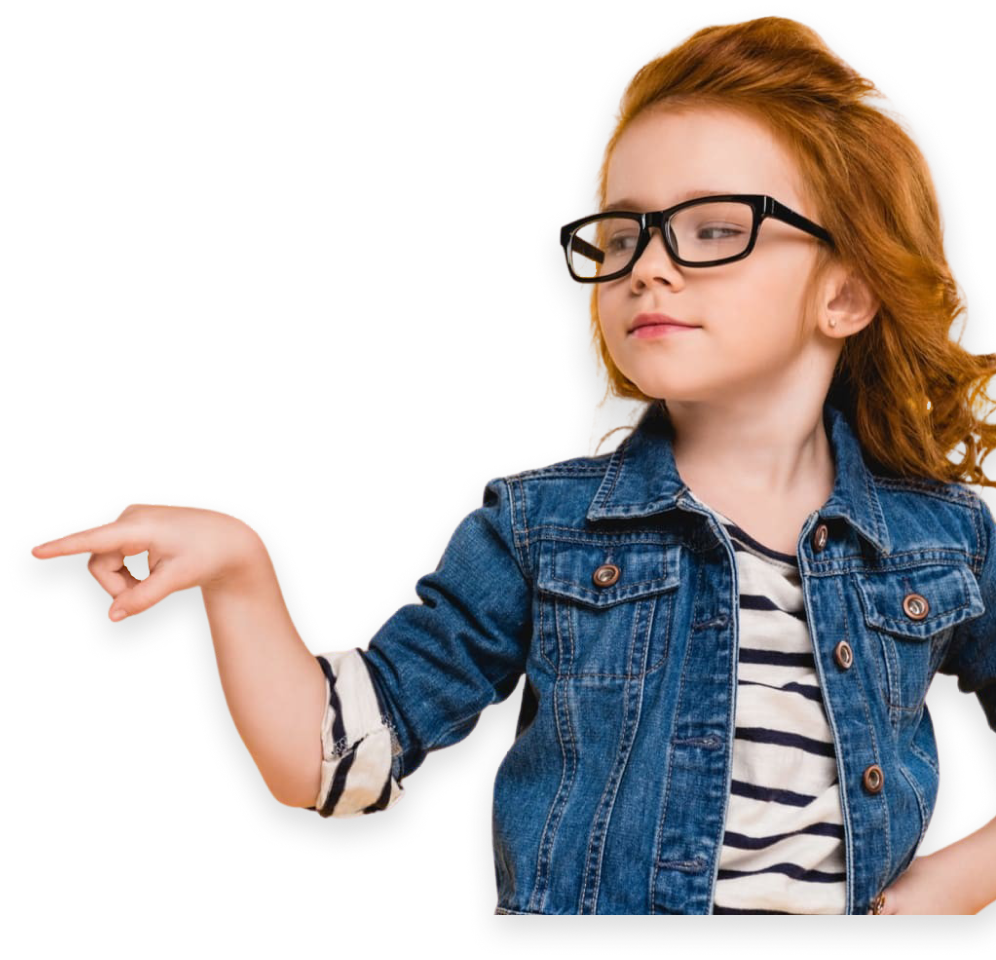
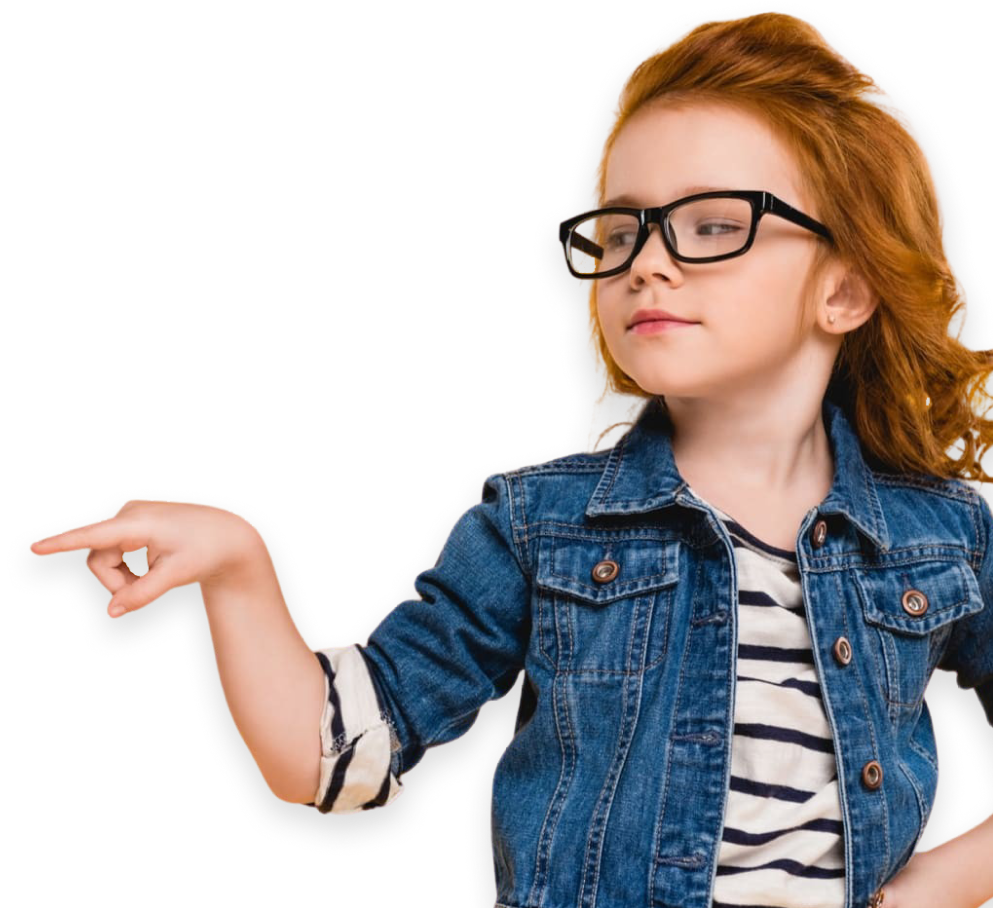
fix

diff --git a/src/less/blocks/_contact-form.less b/src/less/blocks/_contact-form.less
@@ -1,8 +1,23 @@
 .feedback {
 	background-color: @yellow;
 	padding-top: 70px;
+	position: relative;
+	height: 100vh;
+	// display: none;
+	position: fixed;
+	top: 0;
+	bottom: 0;
+	left: 0;
+	right: 0;
+	z-index: 5;
+	-webkit-animation-name: showSlow;
+	animation-name: showSlow;
+	-webkit-animation-duration: .5s;
+	animation-duration: .5s;
+}
 
-	.contact-form {}
+.feedback.active {
+	display: block;
 }
 
 .feedback-content {
@@ -112,5 +127,26 @@
 		color: @yellow;
 		font-family: @fc;
 		font-weight: 400;
+	}
+}
+
+.close-modal {
+	position: absolute;
+	top: 33px;
+	right: 65px;
+	width: 60px;
+	height: 60px;
+	border-radius: 50%;
+	background-color: #fff;
+	display: flex;
+	justify-content: center;
+	align-items: center;
+	z-index: 6;
+
+	span {
+		display: inline-block;
+		transform: rotate(45deg);
+		color: @black;
+
 	}
 }

diff --git a/src/js/main.js b/src/js/main.js
@@ -1,4 +1,6 @@
-$(document).ready(function() {
-
+$(document).ready(function () {
+	// Показать форму по клику на гамбургер
+	const gamburgerBtn = document.querySelector('.btn-bars');
+	const modalForm = document.querySelector('#feedback');
 
 })

diff --git a/src/less/blocks/_header.less b/src/less/blocks/_header.less
@@ -10,7 +10,7 @@
 	}
 }
 
-.header-img {
+.child-img {
 	position: absolute;
 	right: 0;
 	bottom: 0;
